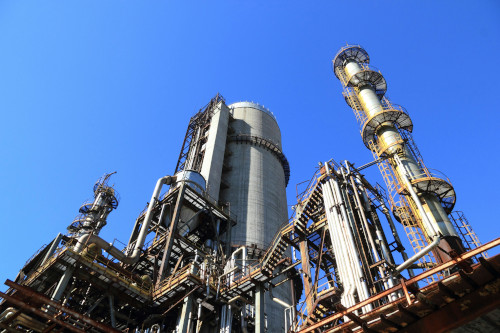
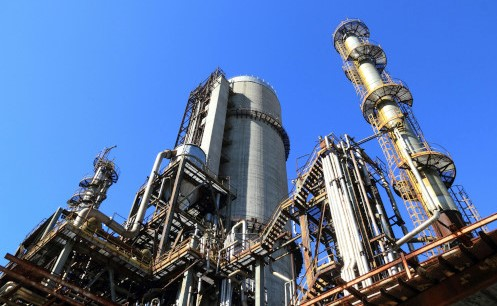
vs

diff --git a/assets/estilos/style.css b/assets/estilos/style.css
@@ -651,7 +651,7 @@
   position: relative;
   text-align: start;
   font-size: 1rem;
-  line-height: 1.1;
+  line-height: 1.2;
   color: var(--main-color-black);
   padding: 0.5rem 1rem;
   margin-top: 1rem;
@@ -707,7 +707,7 @@
 
 .backgroundImgRefinacion {
   background-image: url(../blockchain/refinacion.jpg);
-  background-position: center;
+  background-position: bottom;
   background-repeat: no-repeat;
   background-size: cover;
   background-color: #cbb32b88;
